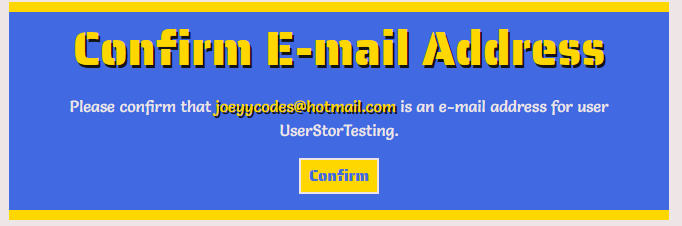
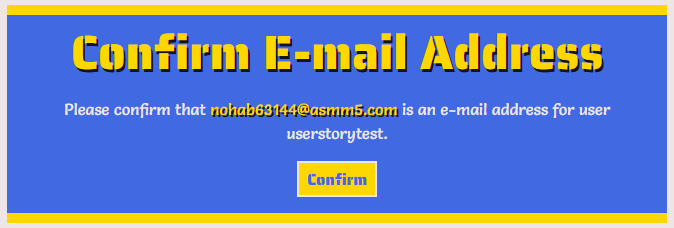
[DOCS] Updated registration process testing

diff --git a/crate/templates/crate/crate.html b/crate/templates/crate/crate.html
@@ -124,7 +124,7 @@
     {{ block.super }}
     <script src="{% static 'supplies/js/quantity-input.js' %}"></script>
     <script>
-        // Check README.md credits for details on this section why it has been included here and not a static JS file
+        // Check README.md credits for details on why this section has been included here and not a static JS file
         // Click event for updating quantity
         $('.link-update').click(function(e) { var form = $(this).prev('.form-update'); form.submit(); });
         // Remove item and reload on click

diff --git a/TESTING.md b/TESTING.md
@@ -269,15 +269,19 @@ I tested the appearance and responsiveness of the website across 6 different bro
     + The navigation bar contains a link to the register page which allows new users to easily initiate the registration process.
     + After submitting the registration form with valid information the user will receive a notification and site content informing them about an email confirmation.
     + The verification email the user receives will contain an email confirm link allowing them to complete the registration process once clicked.
-    + Once the email for the account has been confirmed successfully, the user will be signed up for an account. 
+    + Once the email for the account has been confirmed successfully, the user will be signed up for an account.
 
-        |   _Register_    |
-        |:---------------:|
-        | ![Register](docs/images/testing/userstories/register.png) |
-        | _Register Verify_ |
-        | ![Register Verify](docs/images/testing/userstories/register-verify.png) |
-        | _Register Confirm_ |
-        | ![Register confirm](docs/images/testing/userstories/register-confirm.png) |
+    + I completed a test registration using an email from [Temp Mail](https://temp-mail.org/en/) to provide relevant screenshots throughout the process.
+
+        | _Register_ | _Image_ |
+        |:----------:|:-------:|
+        | Register Empty | ![Register Empty](docs/images/testing/userstories/register-empty.png) |
+        | Register Filled | ![Register Filled](docs/images/testing/userstories/register-filled.png) |
+        | Register Verify | ![Register Verify](docs/images/testing/userstories/register-verify.png) |
+        | Register Verify Notification | ![Register Verify Notification](docs/images/testing/userstories/register-verify2.png) |
+        | Register Email | ![Register Email](docs/images/testing/userstories/register-email.png) |
+        | Register Confirm | ![Register Confirm](docs/images/testing/userstories/register-confirm.png) |
+        | Register Success | ![Register success](docs/images/testing/userstories/register-success.png) |
 
 + As a **First Time User**, I want to read reviews from other users.
     + On the home page I have included a reviews section where users can read reviews left by others displayed in a Bootstrap carousel.
@@ -468,7 +472,6 @@ I tested the appearance and responsiveness of the website across 6 different bro
                         return redirect(reverse('home'))
 
                 + When testing the above method again I received the error message above and the review remained intact.
-
 
 + As a **Site Owner/Superuser**, I want to be able to view and manage all coupon codes.
     + I have included a page (```coupons_manage.html```) for superusers to manage all the existing coupon codes and the option to add new ones.
